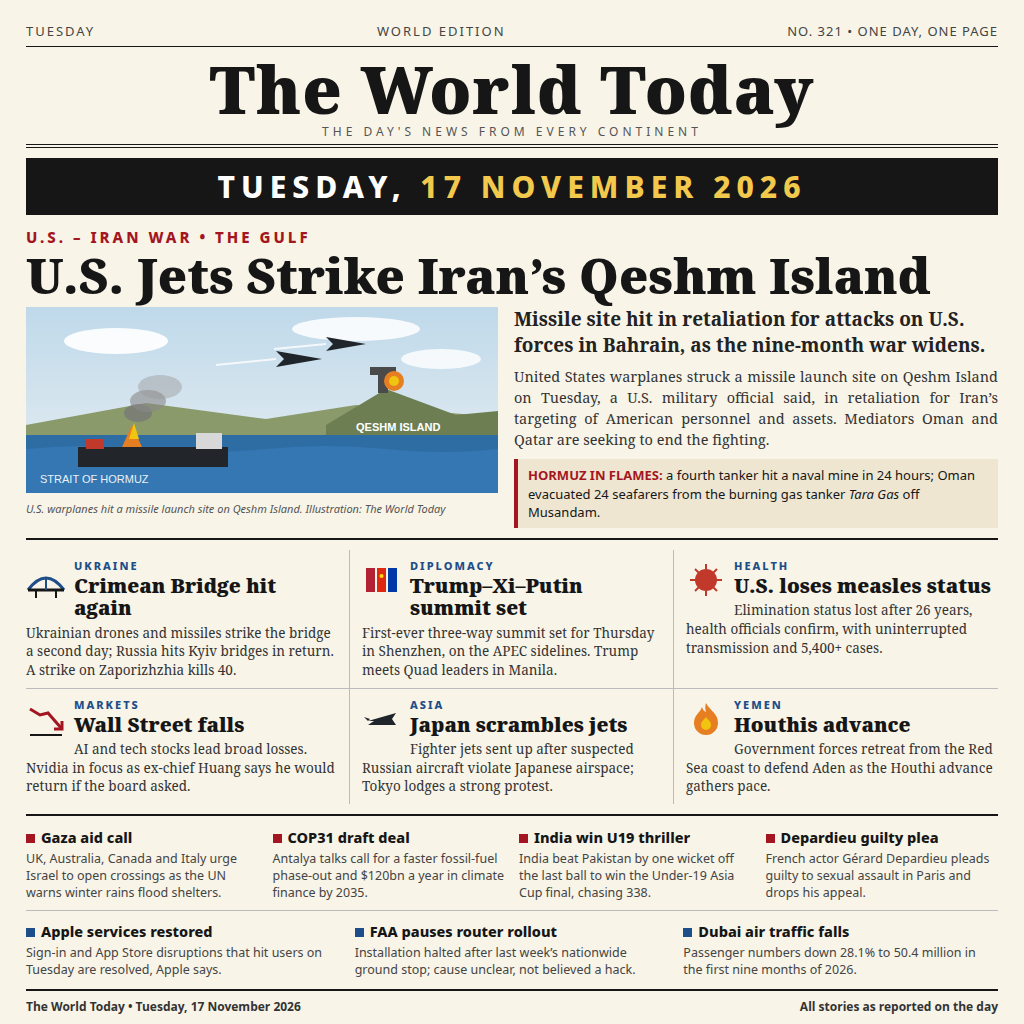
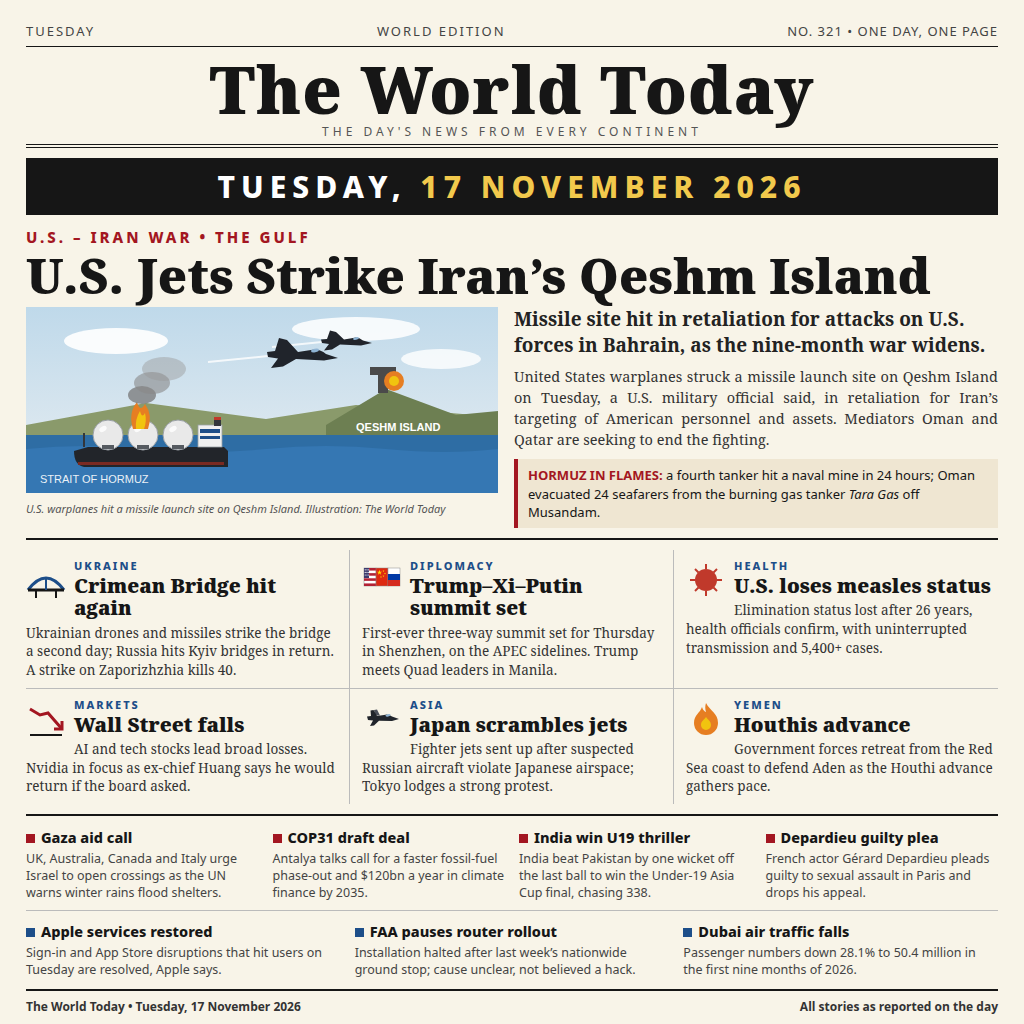
Redraw jets, gas tanker and summit flags accurately

diff --git a/image.html b/image.html
@@ -149,24 +149,50 @@
           <!-- sea -->
           <path d="M0 128 L472 128 L472 186 L0 186 Z" fill="#2e6da4"/>
           <path d="M0 142 Q60 136 120 142 T240 142 T360 142 T472 142 L472 186 L0 186 Z" fill="#3577b3"/>
-          <!-- tanker -->
+          <!-- LPG gas carrier Tara Gas: Moss-type spherical tanks, on fire -->
           <g>
-            <rect x="52" y="140" width="150" height="20" fill="#22252a"/>
-            <rect x="170" y="126" width="26" height="16" fill="#d8d8d8"/>
-            <rect x="60" y="132" width="18" height="10" fill="#c0392b"/>
-            <path d="M96 140 L106 118 L116 140 Z" fill="#e67e22"/>
-            <path d="M103 132 L108 116 L113 132 Z" fill="#f1c40f"/>
-            <ellipse cx="112" cy="106" rx="14" ry="9" fill="#777" opacity="0.75"/>
-            <ellipse cx="122" cy="94" rx="18" ry="11" fill="#888" opacity="0.6"/>
-            <ellipse cx="134" cy="80" rx="22" ry="12" fill="#999" opacity="0.45"/>
+            <path d="M48 144 L62 140 L198 140 L202 144 L202 160 L58 160 Q48 158 48 144 Z" fill="#22252a"/>
+            <rect x="52" y="155" width="146" height="3" fill="#7a2a22"/>
+            <g stroke="#9aa0a6" stroke-width="1">
+              <circle cx="82" cy="128" r="15" fill="#e9e9e9"/>
+              <circle cx="117" cy="128" r="15" fill="#e9e9e9"/>
+              <circle cx="152" cy="128" r="15" fill="#e9e9e9"/>
+            </g>
+            <g fill="#ffffff" opacity="0.85">
+              <ellipse cx="77" cy="122" rx="4" ry="2.5" transform="rotate(-30 77 122)"/>
+              <ellipse cx="112" cy="122" rx="4" ry="2.5" transform="rotate(-30 112 122)"/>
+              <ellipse cx="147" cy="122" rx="4" ry="2.5" transform="rotate(-30 147 122)"/>
+            </g>
+            <g fill="#555a60">
+              <rect x="76" y="138" width="12" height="4"/>
+              <rect x="111" y="138" width="12" height="4"/>
+              <rect x="146" y="138" width="12" height="4"/>
+            </g>
+            <rect x="172" y="118" width="24" height="22" fill="#f0f0f0" stroke="#9aa0a6" stroke-width="0.8"/>
+            <rect x="174" y="122" width="20" height="4" fill="#1d4e89"/>
+            <rect x="174" y="129" width="20" height="3" fill="#1d4e89"/>
+            <rect x="188" y="110" width="7" height="9" fill="#33363b"/>
+            <rect x="188" y="110" width="7" height="3" fill="#c0392b"/>
+            <line x1="58" y1="140" x2="58" y2="126" stroke="#33363b" stroke-width="2"/>
+            <path d="M107 122 Q102 106 111 95 Q114 106 119 97 Q127 108 122 122 Z" fill="#e67e22"/>
+            <path d="M110 122 Q109 112 114 104 Q116 112 119 106 Q121 114 118 122 Z" fill="#f1c40f"/>
+            <ellipse cx="116" cy="88" rx="14" ry="9" fill="#777" opacity="0.75"/>
+            <ellipse cx="126" cy="76" rx="18" ry="11" fill="#888" opacity="0.6"/>
+            <ellipse cx="138" cy="62" rx="22" ry="12" fill="#999" opacity="0.45"/>
           </g>
-          <!-- jets -->
-          <g fill="#20242b">
-            <path d="M250 44 L296 52 L250 60 L258 52 Z"/>
-            <path d="M300 30 L340 37 L300 44 L307 37 Z"/>
+          <!-- fighter jets, F/A-18 style side profiles, flying toward Qeshm -->
+          <path d="M242 49 L182 55" stroke="#ffffff" stroke-width="2" opacity="0.8"/>
+          <path d="M296 35 L246 40" stroke="#ffffff" stroke-width="2" opacity="0.8"/>
+          <g>
+            <path d="M266 44 L260 35 L255 36 L258 45 Z" fill="#3a3f4a"/>
+            <path d="M312 51 L300 47 Q293 41 285 43 L272 45 L261 33 L253 31 L249 44 L241 45 L242 50 L252 51.5 L245 61 L257 59.5 L270 52 L298 53.5 Z" fill="#20242b"/>
+            <ellipse cx="289" cy="43.5" rx="4" ry="1.8" fill="#8fb4d4" transform="rotate(-10 289 43.5)"/>
           </g>
-          <path d="M250 52 L190 58" stroke="#ffffff" stroke-width="2" opacity="0.8"/>
-          <path d="M300 37 L248 42" stroke="#ffffff" stroke-width="2" opacity="0.8"/>
+          <g>
+            <path d="M314 32.5 L309 27 L306 28 L309 33 Z" fill="#3a3f4a"/>
+            <path d="M346 36 L337 33.5 Q332 29.5 327 31 L318 32.5 L310 25 L304 23.5 L301 32 L295 32.5 L296 36 L303 37 L298 43.5 L306 42.5 L314 37.5 L335 38.5 Z" fill="#20242b"/>
+            <ellipse cx="330" cy="31.5" rx="3" ry="1.3" fill="#8fb4d4" transform="rotate(-10 330 31.5)"/>
+          </g>
           <!-- explosion marker on island -->
           <circle cx="368" cy="74" r="10" fill="#e67e22"/>
           <circle cx="368" cy="74" r="5" fill="#f1c40f"/>
@@ -191,7 +217,28 @@
       <p>Ukrainian drones and missiles strike the bridge a second day; Russia hits Kyiv bridges in return. A strike on Zaporizhzhia kills 40.</p>
     </article>
     <article class="cell">
-      <svg class="icon" width="40" height="40" viewBox="0 0 40 40"><rect x="4" y="8" width="9" height="24" fill="#b22234"/><rect x="15" y="8" width="9" height="24" fill="#de2910"/><rect x="26" y="8" width="9" height="24" fill="#0039a6"/><circle cx="19.5" cy="16" r="2" fill="#ffde00"/></svg>
+      <svg class="icon" width="40" height="40" viewBox="0 0 40 40">
+        <defs><path id="st5" d="M0 -3 L0.7 -0.9 L2.9 -0.9 L1.1 0.4 L1.8 2.4 L0 1.2 L-1.8 2.4 L-1.1 0.4 L-2.9 -0.9 L-0.7 -0.9 Z" fill="#ffde00"/></defs>
+        <!-- USA: stripes + blue canton with stars -->
+        <rect x="2" y="8" width="12" height="18" fill="#ffffff" stroke="#888888" stroke-width="0.5"/>
+        <rect x="2" y="8" width="12" height="2.57" fill="#b22234"/>
+        <rect x="2" y="13.14" width="12" height="2.57" fill="#b22234"/>
+        <rect x="2" y="18.29" width="12" height="2.57" fill="#b22234"/>
+        <rect x="2" y="23.43" width="12" height="2.57" fill="#b22234"/>
+        <rect x="2" y="8" width="5" height="10" fill="#3c3b6e"/>
+        <g fill="#ffffff"><circle cx="3.2" cy="9.8" r="0.6"/><circle cx="5" cy="9.8" r="0.6"/><circle cx="6.8" cy="9.8" r="0.6"/><circle cx="3.2" cy="12.4" r="0.6"/><circle cx="5" cy="12.4" r="0.6"/><circle cx="6.8" cy="12.4" r="0.6"/><circle cx="3.2" cy="15" r="0.6"/><circle cx="5" cy="15" r="0.6"/><circle cx="6.8" cy="15" r="0.6"/></g>
+        <!-- China: red field, one large star + four small stars -->
+        <rect x="14" y="8" width="12" height="18" fill="#de2910" stroke="#888888" stroke-width="0.5"/>
+        <use href="#st5" transform="translate(17.5,12.5) scale(0.9)"/>
+        <use href="#st5" transform="translate(21.5,11) scale(0.35)"/>
+        <use href="#st5" transform="translate(23,13.5) scale(0.35)"/>
+        <use href="#st5" transform="translate(21.5,16) scale(0.35)"/>
+        <use href="#st5" transform="translate(19,17) scale(0.35)"/>
+        <!-- Russia: white / blue / red horizontal bands -->
+        <rect x="26" y="8" width="12" height="18" fill="#ffffff" stroke="#888888" stroke-width="0.5"/>
+        <rect x="26" y="14" width="12" height="6" fill="#0039a6"/>
+        <rect x="26" y="20" width="12" height="6" fill="#d52b1e"/>
+      </svg>
       <div class="tag">Diplomacy</div>
       <h3>Trump&ndash;Xi&ndash;Putin summit set</h3>
       <p>First-ever three-way summit set for Thursday in Shenzhen, on the APEC sidelines. Trump meets Quad leaders in Manila.</p>
@@ -209,7 +256,11 @@
       <p>AI and tech stocks lead broad losses. Nvidia in focus as ex-chief Huang says he would return if the board asked.</p>
     </article>
     <article class="cell">
-      <svg class="icon" width="40" height="40" viewBox="0 0 40 40"><path d="M6 22 L34 14 L30 20 L34 26 L6 26 L12 22 Z" fill="#20242b"/><path d="M6 22 L2 18 L8 20 Z" fill="#20242b"/></svg>
+      <svg class="icon" width="40" height="40" viewBox="0 0 40 40">
+        <path d="M18 16.5 L15 10.5 L12 11 L13 16.5 Z" fill="#4a4f5a"/>
+        <path d="M37 20 L30 17.5 Q26 14.5 22 16 L15 17 L11.5 11 L8.5 11.5 L9 17 L5 17.5 L6 21 L11 21.5 L8 27 L12 26.5 L17 21.8 L30 22 Z" fill="#20242b"/>
+        <ellipse cx="26" cy="16.3" rx="2.6" ry="1.2" fill="#8fb4d4" transform="rotate(-12 26 16.3)"/>
+      </svg>
       <div class="tag">Asia</div>
       <h3>Japan scrambles jets</h3>
       <p>Fighter jets sent up after suspected Russian aircraft violate Japanese airspace; Tokyo lodges a strong protest.</p>
